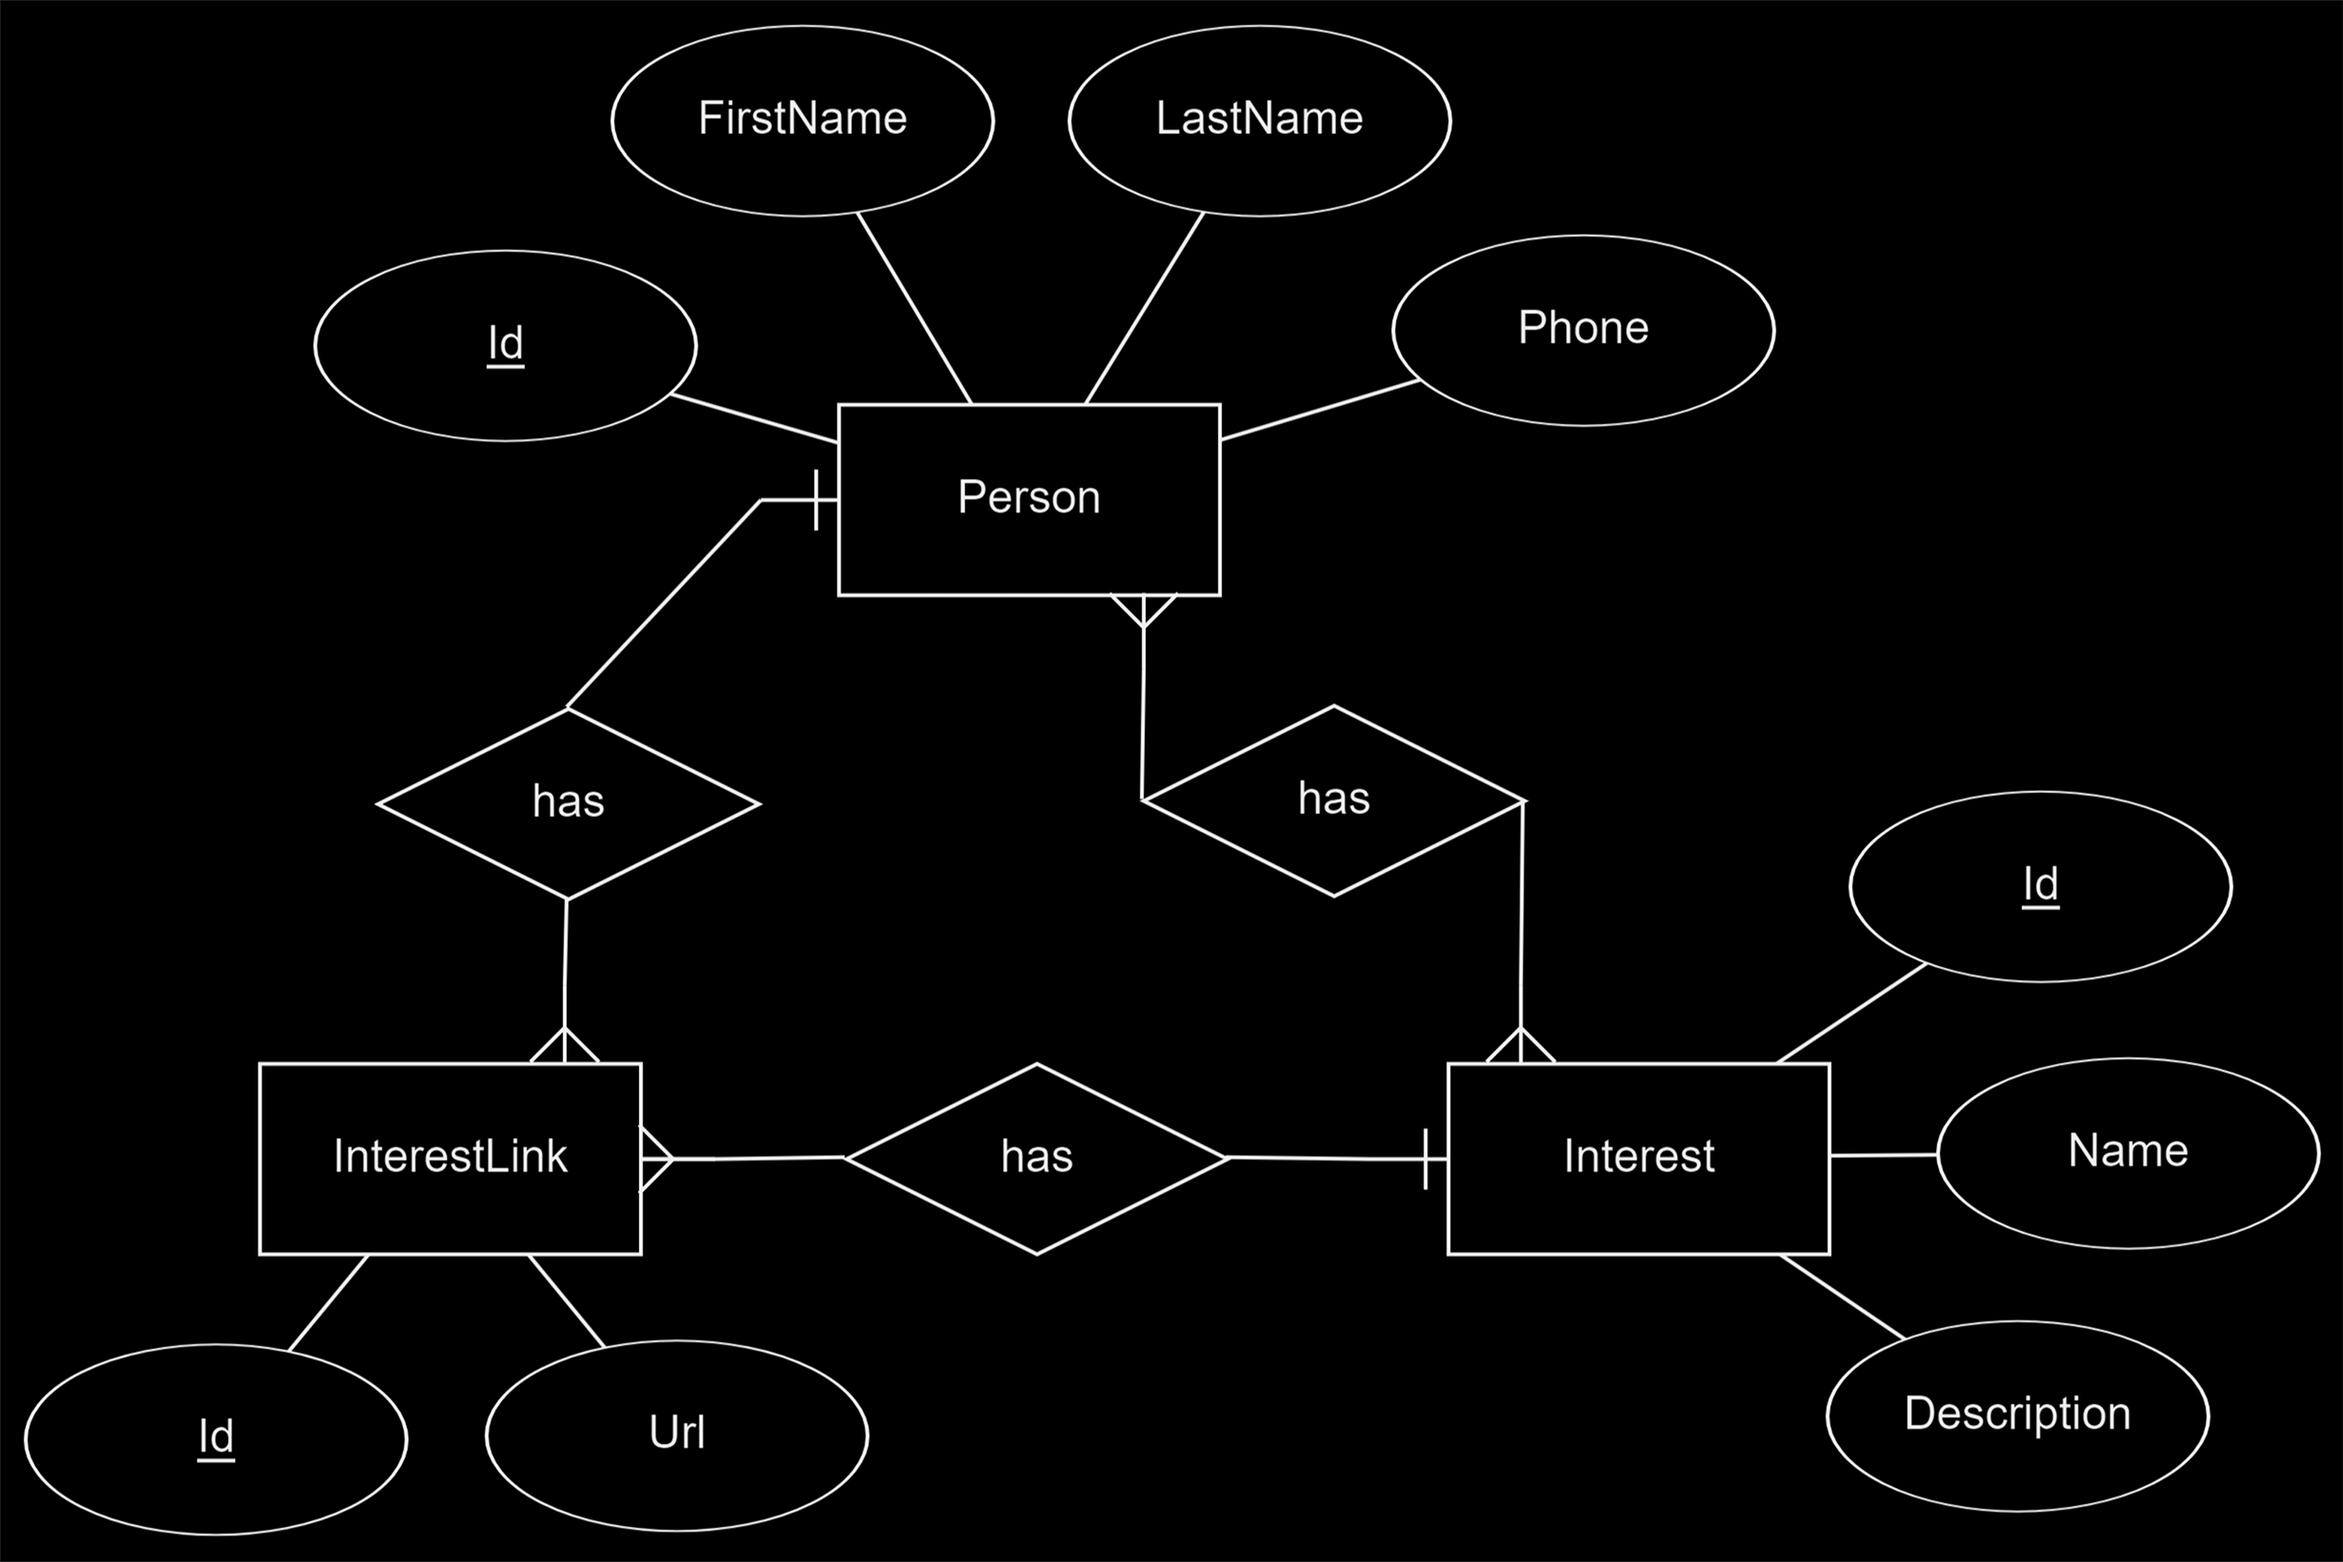
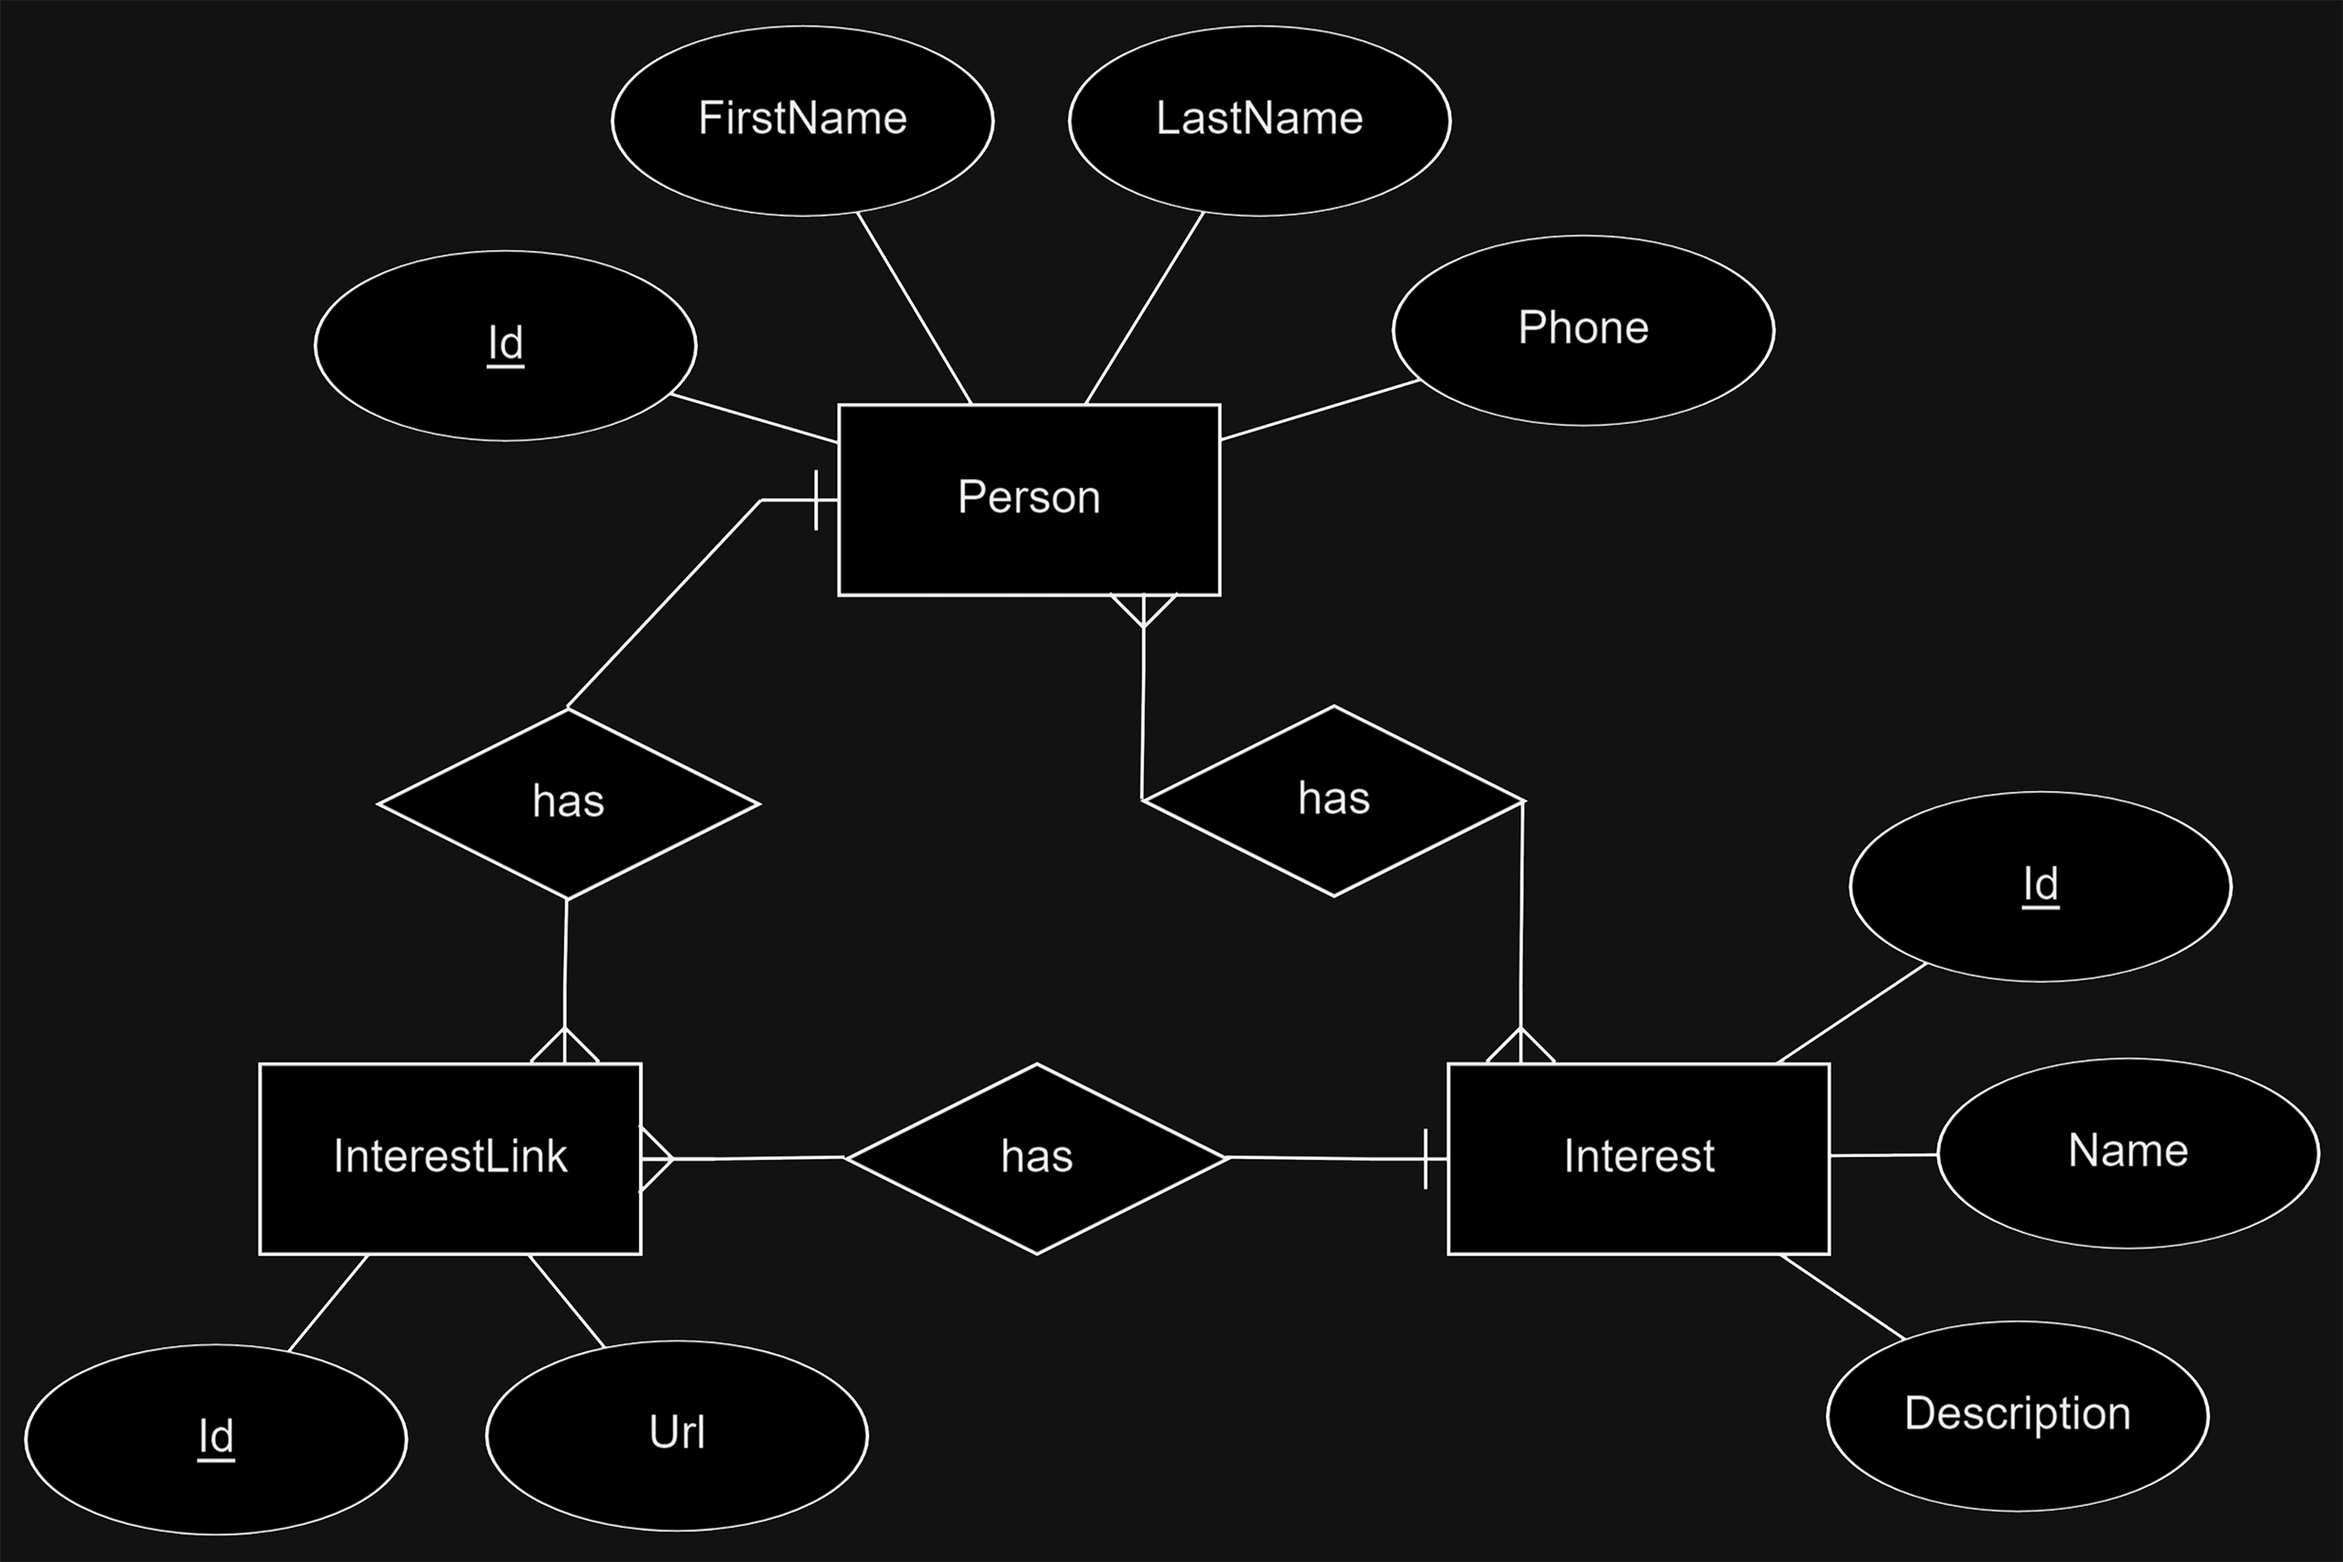
Updated ER-diagram.

diff --git a/README.md b/README.md
@@ -1,1 +1,5 @@
-# Mini_project-API
+## Mini Project: API
+
+![ER-Diagram](/Diagrams/ER_diagram_Mini_project-API_dark.png)
+
+![UML-Diagram](/image/UML_diagram_MiniAPIproject_dark.png)
